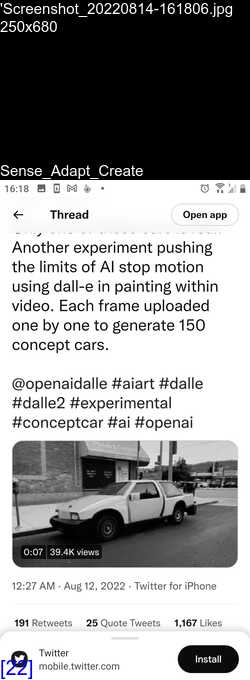
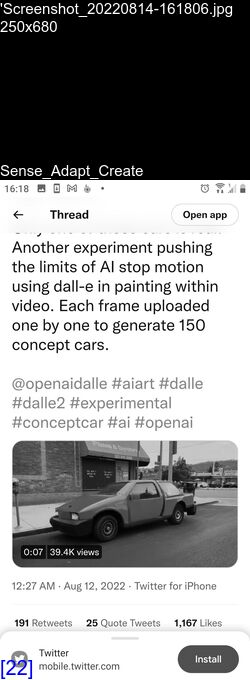
teambuilding

diff --git a/site/teambuilding/teambuilding.html b/site/teambuilding/teambuilding.html
@@ -5,31 +5,32 @@
     <meta http-equiv="X-UA-Compatible" content="IE=edge">
     <meta name="viewport" content="width=device-width, initial-scale=1.0">
 
-    <title>Teambuidling</title>
+    <title>Teambuilding</title>
     
 
 </head>
 
 <style>
-    :root{--margin-treshold: 30px;}    
+    :root{--margin-treshold: 50px;}    
     ::-webkit-scrollbar-thumb {background: rgb(0,0,0);}
     ::-webkit-scrollbar { width: 10px;}
     ::-webkit-scrollbar-track {box-shadow: inset 0 0 5px rgb(0,0,0); }
 
-    body {background-color: black; }
-    body h2 {color: white; font-size:35px; text-transform: capitalize; margin: var(--margin-treshold); font-family: sans-serif;}
-    body p{color: white; font-size:10px; text-transform: capitalize; margin: var(--margin-treshold); font-family: sans-serif;}
-
-    #image_a{margin:  var(--margin-treshold);  }
+    body {background-color: black; color: white;  text-transform: capitalize; font-weight: bolder; margin: var(--margin-treshold); font-family: sans-serif;  }
+    body #title { font-size:35px; }
+    body p{font-size:10px; }
+    body #image_a{max-width:80%; }
+    body #image_c{}
     
 
 </style>
 
 
 <body onload="loadImage()" >
-    <h2>teambuilding: Sense Adapt Create</h2>
-    <p>sourcecode can be found <a href="./images/prep.py">here</a> and <a href="./teambuilding.html">here</a>.</p>
+    <span id="title">teambuilding: Sense Adapt Create</span class="title"> [<a href="./sift.html"  style="color: blue; text-decoration: none; font-size: 12px;">SIFT (Scale-Invariant Feature Transform)</a>]<br> <br><br>
+    <div id="image_b" ></div>
     <div id="image_a" ></div>
+    
 
 
 
@@ -37,13 +38,18 @@
 
     function loadImage() {
 
-        let constant = 26
+        let constant = 25
         var image_a = document.getElementById('image_a')
+        var image_b = document.getElementById('image_b')
 
-        image_a.innerHTML += `<img style=\" max-height: 200px;  \" src=\"./images/final/a-${Math.floor(Math.random()*constant)}.jpg">`
-        if ( image_a.innerHTML.length > 10000){image_a.innerHTML = ''} 
+        var image_id = Math.floor(Math.random()*constant)
+
+        image_a.innerHTML += `<img style=\" max-height: 200px;   \" src=\"./images/final/a-${image_id}.jpg">`
+        image_b.innerHTML += `<img style=\" width: 330px; position:fixed; right:50px; \" src=\"./images/final/a-${image_id}.jpg">`
         
-        setTimeout(loadImage, Math.floor(Math.random()*300))  
+        if ( image_a.innerHTML.length > 3000){image_a.innerHTML = ''} 
+        
+        setTimeout(loadImage, Math.floor(Math.random()*400))  
     };
     
 

diff --git a/site/teambuilding/sift.html b/site/teambuilding/sift.html
@@ -1,0 +1,33 @@
+<!DOCTYPE html>
+<html lang="en">
+<head>
+    <meta charset="UTF-8">
+    <meta http-equiv="X-UA-Compatible" content="IE=edge">
+    <meta name="viewport" content="width=device-width, initial-scale=1.0">
+
+    <title>Teambuilding</title>
+    
+
+</head>
+
+<style>
+    :root{--margin-treshold: 50px;}    
+    ::-webkit-scrollbar-thumb {background: rgb(0,0,0);}
+    ::-webkit-scrollbar { width: 10px;}
+    ::-webkit-scrollbar-track {box-shadow: inset 0 0 5px rgb(0,0,0); }
+
+    body {background-color: black; color: white;  text-transform: capitalize; font-weight: bolder; margin: var(--margin-treshold); font-family: sans-serif;  }
+    body #title { font-size:35px; }
+
+    
+
+</style>
+
+
+<body onload="loadImage()" >
+    <span id="title">teambuilding: Sense Adapt Create</span class="title"> [<a href="./teambuilding.html"  style="color: blue; text-decoration: none; font-size: 12px;">montage</a>]<br> <br><br>
+    <img src="./images/final/montage.jpg" alt="" style="width: 50%; align-items: center;">
+
+</body>
+
+</html>

diff --git a/site/teambuilding/images/prep.py b/site/teambuilding/images/prep.py
@@ -1,21 +1,15 @@
-from importlib.resources import path
+
 import os
-# import opencv
+import cv2
+import matplotlib.pyplot as plt
+
+
 
 
 cwd = os.getcwd()
 pwd = os.path.join(cwd, 'final')
 
-# print(pwd)
-
-
-# os.system(f'magick convert *.jpg -strip -fill white -pointsize 15 -gravity North-west -background black -splice 0x50 -annotate +0-0 \'%f\\n%wx%h\\n%m\' -set filename:base "%[basename]" "%[filename:base].jpg')
-
-
-# print('graysdcale')
-# os.system(f'magick convert *.jpg -set colorspace Gray  ./final/a.jpg')
-# print('RGB')
-# os.system(f'magick convert ./final/*.jpg -set colorspace RGB  ./final/a.jpg')
+#os.system(f'magick convert ./final/*.jpg -set colorspace RGB  ./final/a.jpg')
 
 print('convert png to jpg')
 os.system(f'magick convert *.png -set filename:base "%[basename]" "%[filename:base].jpg')
@@ -27,4 +21,64 @@ print('convert jpeg to jpg')
 os.system(f'magick convert *.jpeg -set filename:base "%[basename]" "%[filename:base].jpg')
 
 print('exif')
-os.system(f'magick convert -resize 500x500 ./*.jpg -quality 50% -sharpen 0x0.2 -set colorspace Gray -strip -fill white -pointsize 15 -gravity North-west -background black -splice 0x180 -annotate +0-0 \'%f\\n%wx%h\\n%[EXIF:Model]\\n%[EXIF:DateTime]\\n\\n\\n\\n\\n\\nSense_Adapt_Create%[EXIF:GPSLongitude] -fill blue -pointsize 20 -gravity South-West  -annotate +0-0 [%[p]]  ./final/a.jpg  ')
+os.system(f'magick convert -resize 500x500 ./*.jpg -quality 80% -strip -sharpen 0x0.2 -colorspace gray  -fill white -pointsize 15 -gravity North-west -background black -splice 0x180 -annotate +0-0 \'%f\\n%wx%h\\n%[EXIF:Model]\\n%[EXIF:DateTime]\\n\\n\\n\\n\\n\\nSense_Adapt_Create%[EXIF:GPSLongitude] -fill blue -pointsize 20 -gravity South-West  -annotate +0-0 [%[p]]  ./final/a.jpg  ')
+
+
+
+print('feature detection')
+os.system(f'magick convert -resize 500x500 ./*.jpg -quality 80%  -sharpen 0x0.2  ./match/a.jpg')
+
+
+
+import cv2
+import matplotlib.pyplot as plt
+# %matplotlib inline
+
+for i in range(0,16):
+    for j in range(0,16):
+            if(i==j):
+                j = j+1
+        
+
+            i1 = cv2.imread(f'./match/a-{i}.jpg')
+            i2 = cv2.imread(f'./match/a-{j}.jpg')
+
+            img1 = cv2.cvtColor(i1, cv2.COLOR_BGR2GRAY)
+            img2 = cv2.cvtColor(i2, cv2.COLOR_BGR2GRAY)
+
+            sift = cv2.SIFT_create()
+
+            k_1, des_1 = sift.detectAndCompute(img1,None)
+            k_2, des_2 = sift.detectAndCompute(img2,None)
+
+            bf = cv2.BFMatcher(cv2.NORM_L1, crossCheck=True)
+
+            matches = bf.match(des_1,des_2)
+            matches = sorted(matches, key = lambda x:x.distance)
+
+            print(len(matches))
+
+            if len(matches) > 450:
+                img3 = cv2.drawMatches(img1, k_1, img2, k_2, matches[:50], img2, flags=4)
+                # cv2.imshow('Output', img3)
+
+
+                # print(type(img3))
+                cv2.imwrite(f'./match/b-{i}-{j}.jpg',img3)
+                cv2.waitKey(0)
+                cv2.destroyAllWindows()
+
+
+
+print('rename')
+os.system(f'magick convert ./match/b-*.jpg ./match/c.jpg')
+
+print('make montage')
+os.system(f'magick montage -tile 1x50 -geometry +0+0 ./match/b-*.jpg  ./final/montage.jpg')
+
+
+print('montage label')
+os.system(f'magick convert ./final/montage.jpg  -sharpen 0x0.8  -fill white -pointsize 15 -gravity North-west -background black -splice 0x180 -annotate +0-0 \'%f\\n%wx%h\\n%[EXIF:Model]\\n%[EXIF:DateTime]\\n\\n\\n\\n\\n\\nSense_Adapt_Create%[EXIF:GPSLongitude] -fill blue -pointsize 20 -gravity South-West  -annotate +0-0 [%[p]]  ./final/montage.jpg  ')
+
+
+
